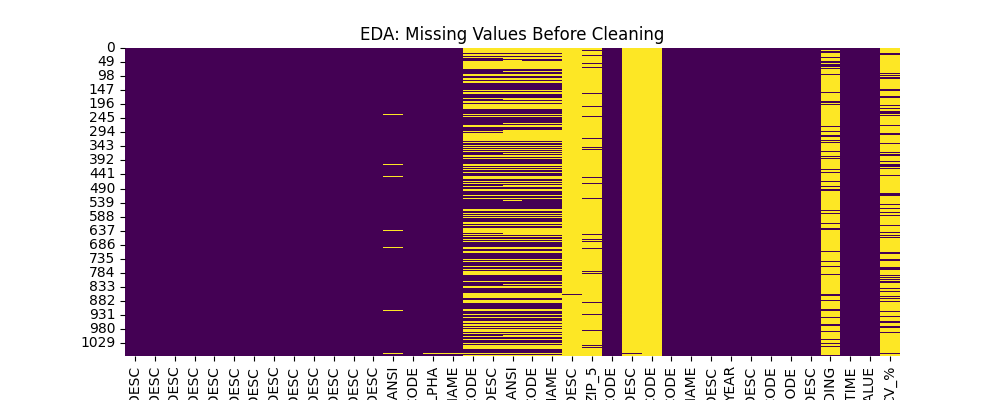
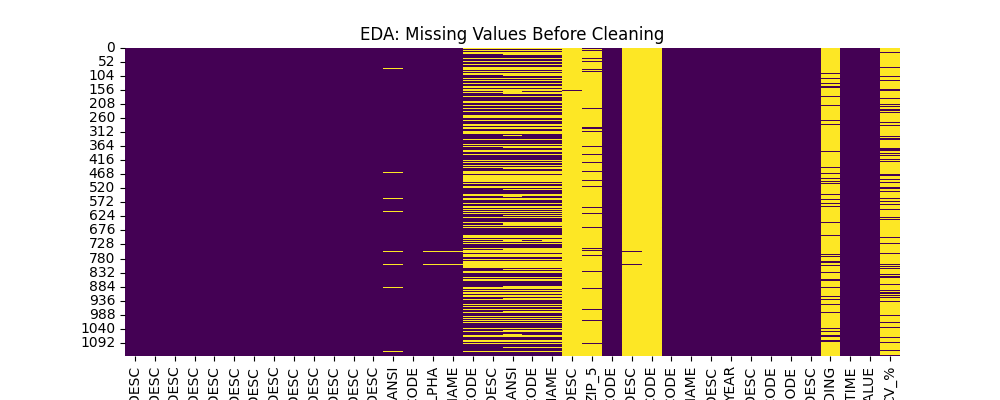
Added requirments.txt for dependencies

diff --git a/data_cleaning.py b/data_cleaning.py
@@ -1,4 +1,4 @@
-import seaborn as sns # type: ignore
+import seaborn as sns 
 import matplotlib.pyplot as plt
 from pyspark.sql import SparkSession
 from pyspark.sql.functions import col, initcap, regexp_replace, expr, split, avg, sum, round
@@ -12,13 +12,13 @@ crops_df = spark.read.csv("raw-data/crops.csv", header=True, inferSchema=True)
 #print original data counts
 print(f"Original crops data count: {crops_df.count()}")
 print("\n--- First 5 rows of RAW Crops Data ---")
-crops_df.show(5, truncate=False,)
+crops_df.show(5, truncate=False)
 
-# CROP DATA CLEANING PIPELINE (PYSPARK)
+#! CROP DATA CLEANING PIPELINE (PYSPARK)
 # We sample 5% of the 500k rows to visualize the "messy" state of the data
 sample_pre_pd = crops_df.sample(False, 0.001).toPandas()
 
-plt.figure(figsize=(10, 4))
+plt.figure(figsize=(10, 6))
 sns.heatmap(sample_pre_pd.isnull(), cbar=False, cmap='viridis')
 plt.title("EDA: Missing Values Before Cleaning")
 plt.savefig("eda_pre_cleaning.png")
@@ -99,3 +99,7 @@ weather_yearly = weather_yearly.na.drop()
 print(f"\nCleaned & Aggregated weather data count: {weather_yearly.count()}")
 print("\n--- First 5 rows of CLEANED Weather Data ---")
 weather_yearly.show(5, truncate=False)
+
+weather_clean.coalesce(1).write.csv("cleaned-data/weather_cleaned_raw.csv", header=True, mode="overwrite")
+weather_yearly.coalesce(1).write.csv("cleaned-data/weather_cleaned.csv", header=True, mode="overwrite")
+crops_clean.coalesce(1).write.csv("cleaned-data/crops_cleaned.csv", header=True, mode="overwrite")

diff --git a/geojoin.py b/geojoin.py
@@ -4,7 +4,7 @@ import geopandas as gpd
 # read weather data and create a dataframe
 weather_df = pd.read_csv("raw-data/weather.csv")
 crops_df = pd.read_csv("raw-data/crops.csv")
-soil_df = pd.read_csv("raw-data/soil.csv")
+# soil_df = pd.read_csv("raw-data/soil.csv")
 
 # create a GeoDataFrame from the weather data, using the Latitude and Longitude columns to create Point geometries
 gdf = gpd.GeoDataFrame(

diff --git a/dev.note.md b/dev.note.md
@@ -1,0 +1,225 @@
+# 🌾 Crop Yield Prediction
+
+A data science project that predicts crop yields by combining weather data, geographic location information, and agricultural data using PySpark and geospatial analysis.
+
+## 📋 Project Overview
+
+This project processes and cleans large-scale agricultural and weather datasets to build a foundation for crop yield prediction models. It includes:
+- **Weather data processing**: Geographic mapping of weather stations to US states
+- **Crop yield data cleaning**: Standardization and validation of USDA crop yield statistics
+- **Data pipeline**: Transforms raw data into cleaned datasets ready for machine learning
+
+## 🛠 Prerequisites
+
+- **Python 3.8+**
+- **Java Runtime Environment (JRE)** - Required for PySpark
+- **pip** (Python package manager)
+
+### Check Prerequisites
+
+```bash
+# Check Python version
+python --version
+
+# Check Java installation
+java -version
+```
+
+## 📦 Installation
+
+### 1. Clone/Setup the Project
+
+```bash
+cd crop-yield-prediction
+```
+
+### 2. Create a Virtual Environment (Recommended)
+
+```bash
+# Create virtual environment
+python -m venv venv
+
+# Activate virtual environment
+# On Linux/Mac:
+source venv/bin/activate
+
+# On Windows:
+venv\Scripts\activate
+```
+
+### 3. Install Dependencies
+
+```bash
+pip install -r requirements.txt
+```
+
+**Dependencies included:**
+- `pyspark>=3.3.0` - Distributed data processing
+- `pandas>=1.5.0` - Data manipulation
+- `geopandas>=0.12.0` - Geospatial data handling
+- `matplotlib>=3.5.0` - Visualization
+- `seaborn>=0.12.0` - Statistical visualization
+
+## 📁 Project Structure
+
+```
+crop-yield-prediction/
+├── README.md                 # This file
+├── requirements.txt          # Python dependencies
+├── us-states.json           # US states GeoJSON boundaries
+├── data_cleaning.py         # Crop yield data cleaning pipeline
+├── geojoin.py              # Geographic join of weather to states
+├── test.py                 # Automated tests
+├── Notes.md                # Project research notes
+├── raw-data/               # Input data
+│   ├── crops.csv           # USDA crop yield statistics
+│   ├── weather.csv         # Weather station observations
+│   └── weather_with_states.csv  # Weather data with state mapping
+└── cleaned-data/           # Output data (Parquet format)
+    ├── crops_cleaned.csv/
+    ├── weather_cleaned_raw.csv/
+    └── weather_cleaned.csv/
+```
+
+## 🚀 How to Run
+
+### 1. Geographic Join (Weather to States)
+
+Maps weather station observations to US states using geographic boundaries:
+
+```bash
+python geojoin.py
+```
+
+**Output:** Creates `raw-data/weather_with_states.csv` with state information added to each weather observation.
+
+### 2. Data Cleaning (PySpark Pipeline)
+
+Cleans and standardizes the crop yield data with the following steps:
+- Filters for yield statistics
+- Removes invalid/missing values
+- Normalizes text (title case)
+- Generates EDA visualizations
+- Exports cleaned data in Parquet format
+
+```bash
+python data_cleaning.py
+```
+
+**Outputs:**
+- `cleaned-data/crops_cleaned.csv/` - Cleaned crop yield data
+- `cleaned-data/weather_cleaned.csv/` - Cleaned weather data
+- `eda_pre_cleaning.png` - Visualization of missing values before cleaning
+
+### 3. Run Tests
+
+```bash
+python test.py
+```
+
+## 📊 Data Pipeline
+
+```
+Raw Data
+├── raw-data/crops.csv
+│   └─→ data_cleaning.py
+│       └─→ cleaned-data/crops_cleaned.csv/
+│
+├── raw-data/weather.csv
+│   └─→ geojoin.py
+│       └─→ raw-data/weather_with_states.csv
+│           └─→ data_cleaning.py
+│               └─→ cleaned-data/weather_cleaned.csv/
+│
+└── us-states.json (GeoJSON boundaries)
+    └─→ Used by geojoin.py for spatial join
+```
+
+## 📝 Data Dictionary
+
+### Crops Data
+| Column | Type | Description |
+|--------|------|-------------|
+| `year` | int | Year of observation |
+| `state` | str | US state name (title case) |
+| `county` | str | County name (title case) |
+| `crop` | str | Type of crop (e.g., CORN, WHEAT, SOYBEANS) |
+| `yield` | float | Crop yield value |
+| `unit` | str | Unit of measurement (e.g., BU/ACRE) |
+
+### Weather Data
+| Column | Type | Description |
+|--------|------|-------------|
+| `Latitude` | float | Station latitude |
+| `Longitude` | float | Station longitude |
+| `State` | str | US state (from geographic join) |
+| `TMAX` | float | Maximum temperature |
+| `TMIN` | float | Minimum temperature |
+| `PRCP` | float | Precipitation |
+| `EVAP` | float | Evapotranspiration |
+
+## ⚠ Important Notes
+
+### PySpark Configuration
+- Scripts use local mode: `master("local[*]")` - Utilizes all available CPU cores
+- For large datasets, consider increasing memory: Modify the `SparkSession` configuration in `data_cleaning.py`
+
+### Performance Considerations
+- First run may be slower due to Java startup and library loading
+- Data cleaning uses 0.1% sampling for EDA visualization to keep processing fast
+- Cleaned data is stored in Parquet format for efficient storage and retrieval
+
+### Data Quality
+- Crop yield values with special codes like "(D)" (withheld) are converted to null
+- Missing values in county or yield columns are removed
+- Text normalization ensures consistent merging across datasets
+
+## 🔧 Troubleshooting
+
+### Java not found
+```
+Error: Java not found
+Solution: Install JRE/JDK. Point JAVA_HOME to installation directory
+```
+
+### Memory issues with PySpark
+Modify in `data_cleaning.py`:
+```python
+spark = SparkSession.builder \
+    .appName("Crop_Weather_Merge") \
+    .master("local[*]") \
+    .config("spark.executor.memory", "4g") \
+    .config("spark.driver.memory", "4g") \
+    .getOrCreate()
+```
+
+### Parquet files won't read
+Ensure `pyarrow` is installed:
+```bash
+pip install pyarrow
+```
+
+## 📚 Resources
+
+- [USDA NASS Dataset](https://quickstats.nass.usda.gov/) - Crop yield data source
+- [PySpark Documentation](https://spark.apache.org/docs/latest/api/python/)
+- [GeoPandas Documentation](https://geopandas.org/)
+- [Notes.md](Notes.md) - Detailed research notes on required data sources for improved predictions
+
+## 👥 Contributing
+
+When contributing:
+1. Ensure all scripts run without errors: `python script_name.py`
+2. Run tests: `python test.py`
+3. Document any new dependencies in `requirements.txt`
+4. Add comments for complex data transformations
+5. Update this README if adding new functionality
+
+## 📄 License
+
+[Add your license here]
+
+---
+
+**Last Updated:** 2026-04-17  
+**Data Source:** USDA NASS, NOAA Weather Data
